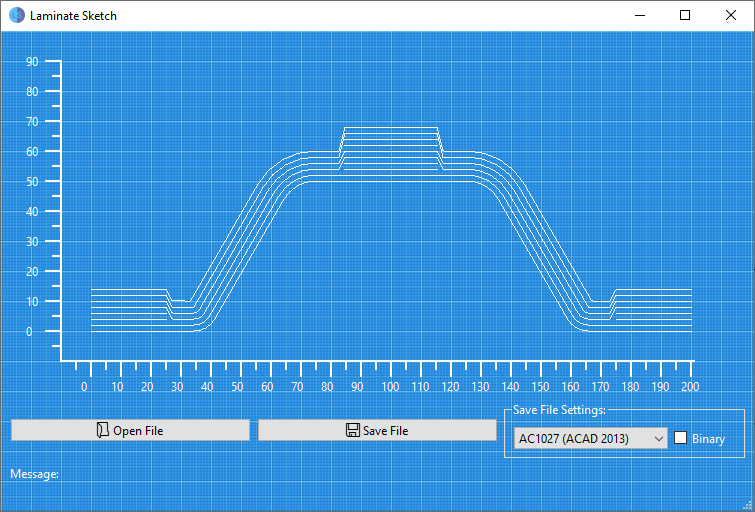
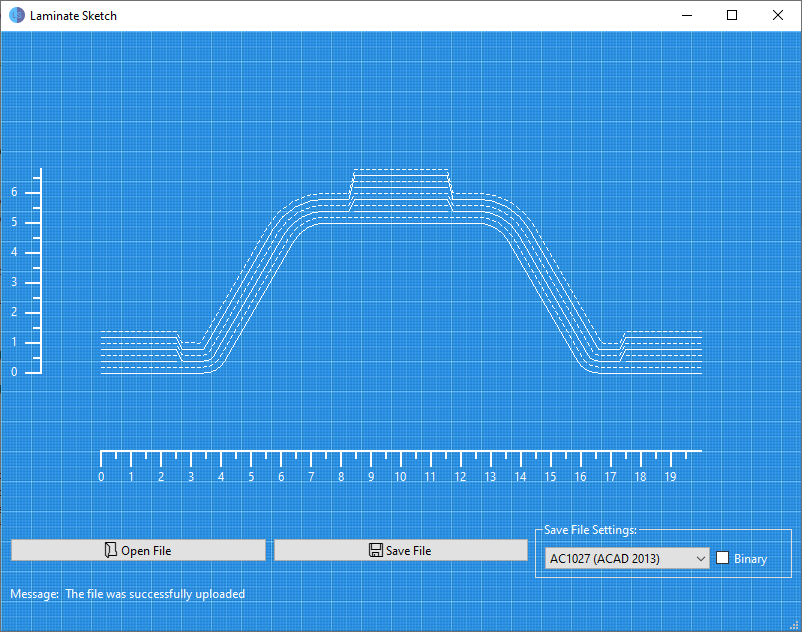
Изменено отображение осевых линий и добавлена центрование эскиза

Changed region(s): [[0.0, 0.0, 1.0, 1.0]]

diff --git a/mainwindow.cpp b/mainwindow.cpp
@@ -5,75 +5,71 @@
 #include <QFileDialog>
 #include <QString>
 
-inline QPoint GetOrigin(int height){
-    return QPoint{60, height - 150};
-}
-
-void DrawableSketch::CreateSketch(sketch::Sketch &sketch, QPoint origin)
+void DrawableSketch::CreateSketch(sketch::Sketch &sketch, QRect window)
 {
-    width_ = sketch.Width() * 3;
-    height_ = sketch.Height() * 3;
-    origin_ = {origin.x() + 30., origin.y() - 30.};
+    width_ = sketch.Width() * settings_.scale;
+    height_ = sketch.Height() * settings_.scale;
+    SetOrigin(window);
 
     for (const auto& layer : sketch.GetSketchLayers()){
         for (const auto& ply : layer){
             auto& layer = sketch_.emplace_back(DrawableLayer{});
 
-            layer.orientation_ = ply.orientation_;
+            // Устанавливаем стиль линии у сегмента в зависимости от направления укладки
+            switch (ply.orientation_) {
+            case domain::ORIENTATION::ZERO:
+                layer.style_ = Qt::PenStyle::SolidLine;
+                break;
+            case domain::ORIENTATION::PERPENDICULAR:
+                layer.style_ = Qt::PenStyle::DashLine;
+                break;
+            default:
+                layer.style_ = Qt::PenStyle::DashDotLine;
+                break;
+            }
 
             for (const auto& node : ply.nodes_){
-                //QPointF point {node.point_.x + origin_.x(), height_ - node.point_.y + origin_.y()};
-                layer.polyline_.emplace_back(QPointF{node.point_.x * 3 + origin_.x(),
-                                              (height_ - node.point_.y * 3) + origin_.y() - height_ });
+                layer.polyline_.emplace_back(QPointF{node.point_.x * settings_.scale + origin_.x(),
+                                              (height_ - node.point_.y * settings_.scale) + origin_.y() - height_ });
             }
         }
     }
 }
 
-void DrawableSketch::SetNewOrigin(QPoint new_origin){
-    int dy = new_origin.y() - origin_.y();
+void DrawableSketch::SetOrigin(QRect window){
 
+    // Эскиз всегда находится в середине окна
+    QPoint new_origin = {static_cast<int>((window.width() - GetWidth()) / 2),
+                        static_cast<int>(window.height() - MainWindow::PANEL_SIZE
+                                          - (window.height() - MainWindow::PANEL_SIZE
+                                          - GetHeight()) / 2)};
+
+    // Смещаем эскиз
+    int dy = new_origin.y() - origin_.y();
+    int dx = new_origin.x() - origin_.x();
     for (auto& layer : sketch_){
         for(auto& point : layer.polyline_){
             point.setY(point.y() + dy);
+            point.setX(point.x() + dx);
         }
     }
+
+    // Присваиваем новое начало эскиза
     origin_ = new_origin;
 }
 
 void DrawableSketch::DrawSketch(QPainter *painter){
-
+    // Сохраняем предыдущую "ручку"
     const auto old_pen = painter->pen();
 
-    QPen zero_pen(Qt::white);
-    zero_pen.setStyle(Qt::PenStyle::SolidLine);
-    zero_pen.setWidth(1);
-
-    QPen perp_pen(Qt::white);
-    perp_pen.setStyle(Qt::PenStyle::DashLine);
-    perp_pen.setWidth(1);
-
-    QPen other_pen(Qt::white);
-    other_pen.setStyle(Qt::PenStyle::DashDotLine);
-    other_pen.setWidth(1);
+    const QBrush brush(settings_.color);
 
     for (const auto& layer : sketch_){
-
-        switch (layer.orientation_) {
-        case domain::ORIENTATION::ZERO:
-            painter->setPen(zero_pen);
-            break;
-        case domain::ORIENTATION::PERPENDICULAR:
-            painter->setPen(perp_pen);
-            break;
-        default:
-            painter->setPen(other_pen);
-            break;
-        }
-
+        painter->setPen(QPen{brush, settings_.lines_width, layer.style_}); // Для отрисовывки каждого слоя со своими настройками
         painter->drawPolyline(layer.polyline_);
     }
 
+    // Устанавливаем предыдущую "ручку" назад
     painter->setPen(old_pen);
 }
 
@@ -103,8 +99,6 @@ MainWindow::MainWindow(QWidget *parent)
 
     ui->cb_format_selection->setMouseTracking(true);
     ui->cb_format_selection->installEventFilter(this);
-
-    origin_ = GetOrigin(height());
 }
 
 MainWindow::~MainWindow()
@@ -131,44 +125,83 @@ void DrawBackground(QPainter* painter, QRect window){
     painter->drawPixmap(window, background, drawing_area);
 }
 
-void DrawAxis(QPainter* painter, QPoint origin, int width){
-    const int offset_y = 30;
-    const int offset_x = 60;
+void DrawAxis(QPainter* painter, QPoint origin, QRect window, QRect sketch){
+    const int offset_y = MainWindow::PANEL_SIZE + MainWindow::PIX_IN_CM * 2;
+    const int offset_x = MainWindow::PIX_IN_CM * 2;
+
+    const auto old_pen = painter->pen();
+
+    QPen pen(Qt::white);
+    pen.setWidth(2.);
+
+    painter->setPen(pen);
+
+
+    int x = (origin.x() - offset_x < offset_x)? origin.x() - offset_x
+                                              : offset_x;
+    int y = (window.height() - origin.y() - offset_y < MainWindow::PIX_IN_CM)
+            ? origin.y() + MainWindow::PIX_IN_CM : window.height() - offset_y;
 
     // Рисуем ось Y
-    painter->drawLine(QPoint{origin.x(), offset_y}, origin);
+    painter->drawLine(QPoint{x, origin.y()},
+                      QPoint{x, origin.y() - sketch.height()});
 
     // Рисуем ось X
-    painter->drawLine(origin, QPoint{width - offset_x, origin.y()});
+    painter->drawLine(QPoint{origin.x(), y},
+                      QPoint{origin.x() + sketch.width(), y});
 
-    int step = 15;
-    bool is_short_line = true;
-    for(int y = origin.y() - step, distance = -5; y >= offset_y; y -= step, distance += 5){
-        painter->drawLine(QPoint{(is_short_line) ? 52 : 45, y},
-                          QPoint{origin.x(), y});
-        if (is_short_line){
-            is_short_line = false;
+    // Возвращает число санитиметровой шкалы и смещение для цифры
+    auto number_and_offset = [](int d){
+        int number = d / MainWindow::PIX_IN_CM;
+        return std::make_pair(number, (number < 10) ? 3 : 7);
+    };
+
+    int strokes_step = MainWindow::PIX_IN_CM / 2;
+
+    int long_stroke_length = MainWindow::PIX_IN_CM / 2;
+    int short_stroke_length = long_stroke_length / 2;
+
+    bool is_short_stroke = false;
+
+    for(int dy = 0; dy < sketch.height(); dy += strokes_step){
+        painter->drawLine(QPoint{(is_short_stroke)
+                                ? x - short_stroke_length
+                                : x - long_stroke_length,
+                                origin.y() - dy},
+                          QPoint{x, origin.y() - dy});
+        if (is_short_stroke){
+            is_short_stroke = false;
         }
         else {
-            painter->drawText(QPoint{25, y + 5}, QString::number(distance));
-            is_short_line = true;
+            auto [number, offset] = number_and_offset(dy);
+            painter->drawText(QPoint{x - MainWindow::PIX_IN_CM,
+                                     origin.y() - dy + offset},
+                              QString::number(number));
+            is_short_stroke = true;
         }
     }
 
-    const int right_border = width - offset_x;
-    is_short_line = true;
-    for(int x = offset_x + step, distance = -5; x < right_border; x += step, distance += 5){
-        painter->drawLine(QPoint{x, (is_short_line) ? origin.y() + 8
-                                                    : origin.y() + 15},
-                          QPoint{x, origin.y()});
-        if (is_short_line){
-            is_short_line = false;
+    is_short_stroke = false;
+
+    for(int dx = 0; dx < sketch.width(); dx += strokes_step){
+        painter->drawLine(QPoint{origin.x() + dx,
+                                  (is_short_stroke)
+                                  ? y + short_stroke_length
+                                  : y + long_stroke_length,},
+                          QPoint{origin.x() + dx, y});
+        if (is_short_stroke){
+            is_short_stroke = false;
         }
         else {
-            painter->drawText(QPoint{x - 10, origin.y() + 30}, QString::number(distance));
-            is_short_line = true;
+            auto [number, offset] = number_and_offset(dx);
+            painter->drawText(QPoint{origin.x() + dx - offset,
+                                     y + MainWindow::PIX_IN_CM},
+                              QString::number(number));
+            is_short_stroke = true;
         }
     }
+
+    painter->setPen(old_pen);
 }
 
 void MainWindow::paintEvent(QPaintEvent *event) {
@@ -176,20 +209,12 @@ void MainWindow::paintEvent(QPaintEvent *event) {
 
     DrawBackground(&painter, rect());
 
-    QPen pen(Qt::white);
-    pen.setWidth(2);
-
-    painter.setPen(pen);
-
-    origin_ = GetOrigin(height());
-
-    DrawAxis(&painter, origin_, width());
-
-    pen.setWidth(1);
-    painter.setPen(pen);
-
     if (!drawable_sketch_.IsEmpty()){
-        drawable_sketch_.SetNewOrigin({origin_.x() + 30, origin_.y() - 30});
+        drawable_sketch_.SetOrigin(rect());
+        DrawAxis(&painter, drawable_sketch_.GetOrigin(), rect(),
+                 QRect{0, 0, drawable_sketch_.GetWidth(),
+                  drawable_sketch_.GetHeight() }
+                 );
         drawable_sketch_.DrawSketch(&painter);
     }
 
@@ -256,7 +281,7 @@ void MainWindow::on_btn_open_file_clicked()
     if (success){
         // Наполняем эскиз
         sketch_.FillSketch(handler_.GetRawSketchFromData());
-        drawable_sketch_.CreateSketch(sketch_, origin_);
+        drawable_sketch_.CreateSketch(sketch_, rect());
 
         ui->lbl_message_text->setText("The file was successfully uploaded");
     }

diff --git a/mainwindow.h b/mainwindow.h
@@ -15,7 +15,13 @@ QT_END_NAMESPACE
 
 struct DrawableLayer{
     QPolygonF polyline_;
-    domain::ORIENTATION orientation_ = domain::ORIENTATION::ZERO;
+    Qt::PenStyle style_ = Qt::PenStyle::NoPen;
+};
+
+struct DrawableSketchSettings{
+    qreal lines_width = 1.;
+    qreal scale = 3.;
+    QColor color = Qt::white;
 };
 
 class DrawableSketch{
@@ -26,18 +32,26 @@ public:
     {
     }
 
-    void CreateSketch(sketch::Sketch& sketch, QPoint origin);
-    void SetNewOrigin(QPoint new_origin);
-
+    void CreateSketch(sketch::Sketch& sketch, QRect window);
+    void SetOrigin(QRect window);
+    QPoint GetOrigin() const { return origin_; }
+    qreal GetWidth() const { return width_; }
+    qreal GetHeight() const { return height_; }
     bool IsEmpty() { return sketch_.empty(); }
-
     void DrawSketch(QPainter* painter);
 
 private:
     std::vector<DrawableLayer> sketch_;
+    DrawableSketchSettings settings_;
     qreal width_;
     qreal height_;
-    QPointF origin_;
+    QPoint origin_;
+};
+
+struct WindowSettings {
+    qreal axis_width = 2.;
+    qreal scale = 3.;
+    QColor color = Qt::white;
 };
 
 class MainWindow : public QMainWindow
@@ -47,6 +61,9 @@ class MainWindow : public QMainWindow
 public:
     MainWindow(QWidget *parent = nullptr);
     ~MainWindow();
+
+    const static int PANEL_SIZE = 120;
+    const static int PIX_IN_CM = 30;
 
 protected:
     bool eventFilter(QObject* obj, QEvent* event) override;
@@ -64,7 +81,6 @@ private:
     dxf::DxfHandler handler_;
     sketch::Sketch sketch_;
     DrawableSketch drawable_sketch_;
-
-    QPoint origin_;
+    WindowSettings settings_;
 };
 #endif // MAINWINDOW_H

diff --git a/README.md b/README.md
@@ -1,46 +1,11 @@
-<<<<<<< HEAD
-=======
 <div id="logo">
   <img src="https://github.com/pochishchalov/LaminateSketch/blob/main/icons/app_icon.png?raw=true" width="100"/>
 </div>
 
->>>>>>> f4ad6af3f16c64b2515199bf4f1c588c042e6332
 # Laminate Sketch.
 
 Приложение для работы с данными полученными из NX Fibersim и последующим размещением на чертеж
 
-<<<<<<< HEAD
-- Принимает на вход данные JSON-формата, выдает ответ на запросы к справочнику (поиск маршрутов, расчет времени поездки);
-- Визуализирует карту маршрутов в формате SVG;
-- Реализован конструктор JSON, позволяющий находить неправильную последовательность методов на этапе компиляции.
-   
-*Для сборки проекта необходима поддержка стандарта не ниже С++20.*
-
-## Запуск программы
-Для создания базы справочника программу необходимо запустить, указав при этом входной JSON-файл.  
-Пример запуска программы для заполнения базы:  
-`transport_catalogue.exe <in.json`
-
-В ответ, программа создаст два файла:
-- `out.json` - ответы на запросы к справочнику;
-- `out_image.svg` - визуализиция остановок и маршрутов.
-
-## Формат входных данных
-Входные данные поступают программе из stdin в формате JSON-объекта, который имеет на верхнем уровне следующую структуру:
-```
-{
-  "base_requests": [ ... ],
-  "render_settings": { ... },
-  "routing_settings": { ... },
-  "stat_requests": [ ... ]
-}
-```
-Это словарь, содержащий ключи:
-- `base_requests` — массив с описанием автобусных маршрутов и остановок;
-- `render_settings` — словарь для отрисовки изображения;
-- `routing_settings` — словарь, содержащий в себе настройки для скорости автобусов и времени ожидания на остановке;
-- `stat_requests` — массив с запросами к транспортному справочнику.
-=======
 <div id="mainwindow">
   <img src="https://github.com/pochishchalov/LaminateSketch/blob/main/pictures/main_window.png?raw=true" width="800"/>
 </div>
@@ -56,4 +21,3 @@
 *- iconv*    
 
 ! - В `CMakeList.txt` необходимо указать путь к `iconv` (Например: `C:/Dev/msys64/mingw64`).
->>>>>>> f4ad6af3f16c64b2515199bf4f1c588c042e6332
